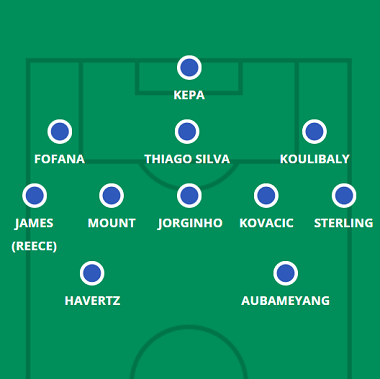
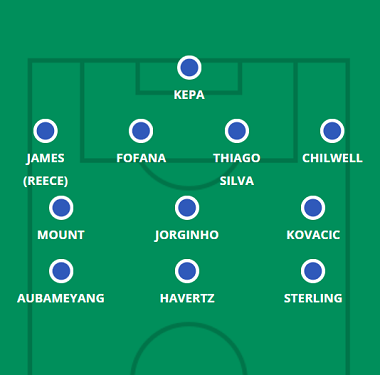
chelsea

diff --git a/chelsea.html b/chelsea.html
@@ -68,7 +68,7 @@
             <hgroup>
                 <h1> Provável Escalação</h1>
                 <h2 class="direita"> por FabioVascão </h2>
-                <h3 class="direita"> Atualizado em 29/Setembro/2022 </h3>
+                <h3 class="direita"> Atualizado em 30/Setembro/2022 </h3>
             </hgroup>
     
             <h2 class="time"> <img src="_fotos/_logos/logochelsea.png" />Chelsea</h2>
@@ -77,9 +77,9 @@
                     <img src="_fotos/_dinamicas/chelsea.png" />
                 </figure>
             </aside>
-                <div class="escalacao"><h2 class="titulo">Ultimas Notícias</h2> <h4><p>Mais informações em breve.</p></h4><br>
-                    <h4><strong>Jogadores fora da próxima partida:</strong> Auba, Kante e Zakaria</h4><br><br>
-                    <h4><strong>Jogadores dúvidas:</strong> </h4>
+                <div class="escalacao"><h2 class="titulo">Ultimas Notícias</h2> <h4><p>N'Golo Kanté (lesão na coxa) e Edouard Mendy (lesão no joelho) não estão prontos para jogar apesar do retorno aos treinos, enquanto Graham Potter revelou que Marc Cucurella e Carney Chukwuemeka contraíram problemas antes do jogo do Crystal Palace; O próprio Potter não descartou explicitamente esses dois jogadores, mas o site oficial do clube do Chelsea foi um passo além e fez exatamente isso. Como o novo chefe dos Blues se sai daqui é a grande questão, já que Cucurella foi fundamental não apenas para o 3-5-2 usado contra o RB Salzburg no primeiro jogo de Potter no comando, mas mais especificamente para fornecer cobertura para Raheem Sterling. Seria um exagero para Kalidou Koulibaly operar no mesmo papel híbrido, então o ex-chefe de Brighton pode ter que recorrer ao seu extenso manual para contornar a ausência de Cucurella. Uma mudança para um zagueiro mais ortodoxo poderia estar em ordem, então: os Blues fizeram a transição para uma defesa de quatro homens durante o jogo inaugural de Potter no comando, então Ben Chilwell pode entrar como um genuíno lateral-esquerdo na ausência de Cucurella. Wesley Fofana no lugar de Cesar Azpilicueta também é uma forte possibilidade, já que o ritmo de Wilfried Zaha pode causar problemas para o veterano espanhol. Os seis primeiros nesta escalação prevista começaram naquele jogo contra o Salzburg na Liga dos Campeões, mas Armando Broja e Ruben Loftus-Cheek estarão pressionando para a promoção fora do banco após aparições brilhantes na Europa, principalmente como Kai Havertz e Pierre-Emerick Aubameyang fez pouco para impressionar os austríacos. Havertz, pelo menos, entra neste jogo com dois gols contra a Inglaterra durante o intervalo internacional.</p></h4><br>
+                    <h4><strong>Jogadores fora da próxima partida:</strong> Kante e Mendy</h4><br><br>
+                    <h4><strong>Jogadores dúvidas:</strong> Chukwuemeka e Cucurella  </h4>
                 </div> 
         </header>
         </article>
